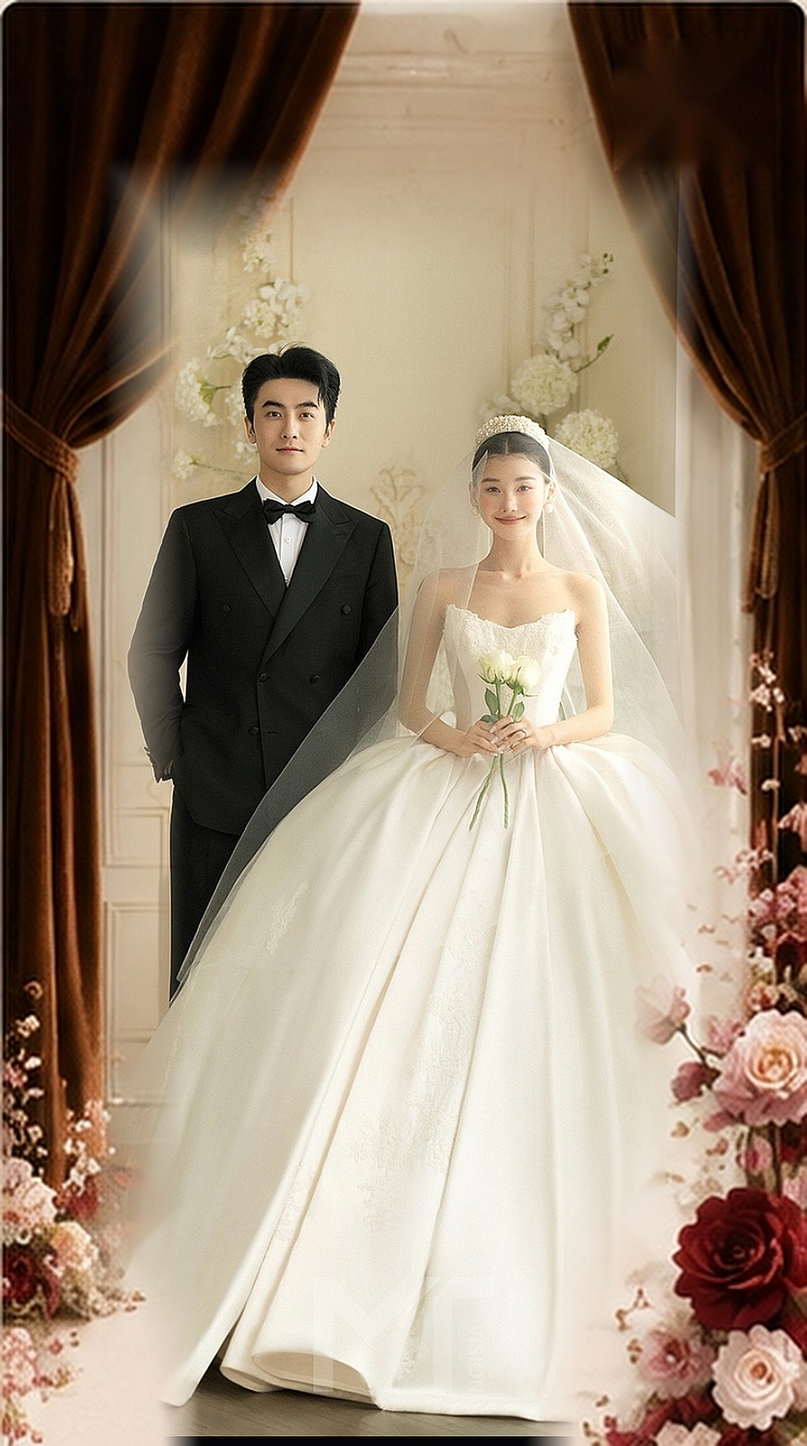
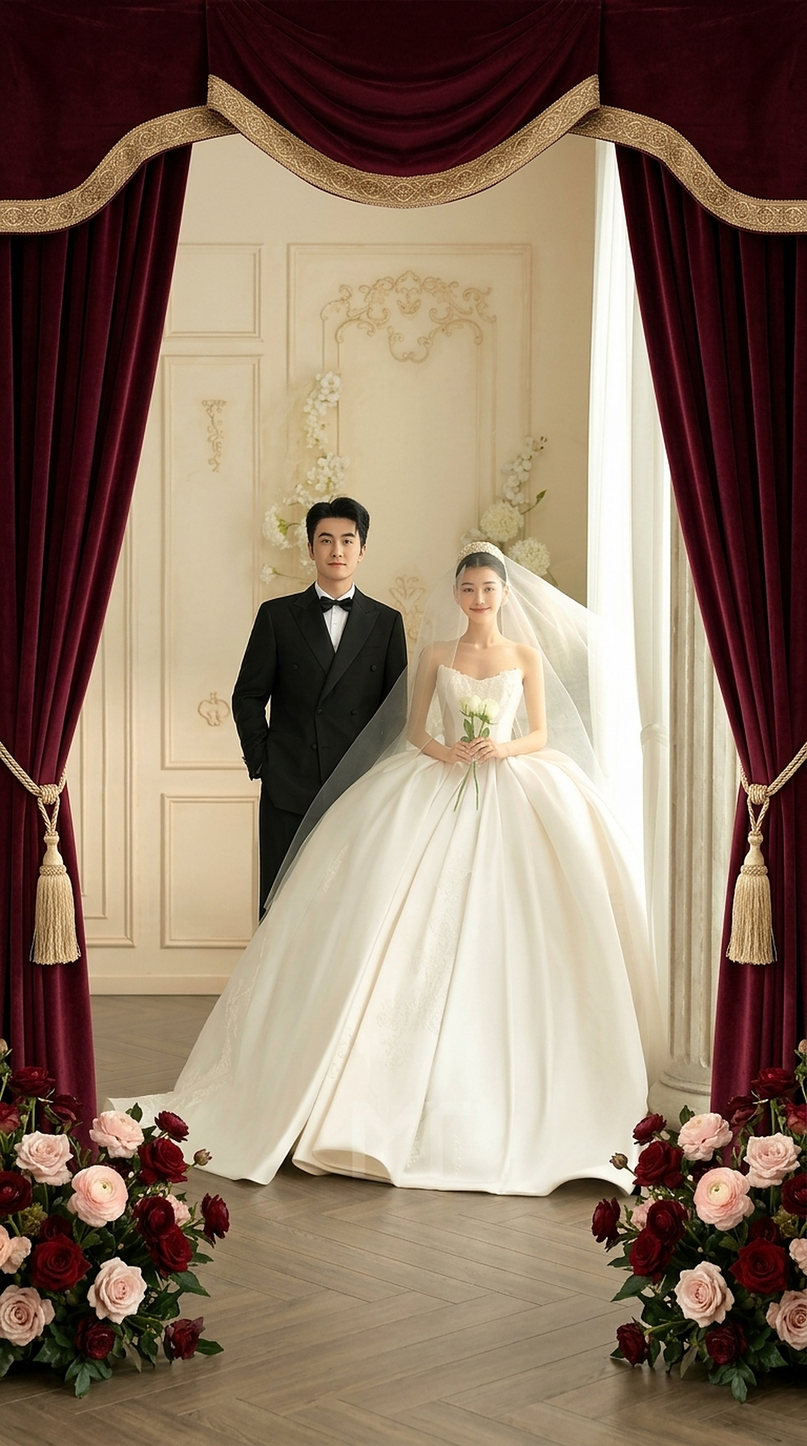
feat(cover): upgrade Card 01 with symmetrical burgundy velvet curtains and pristine cream arch

diff --git a/index.html b/index.html
@@ -11,7 +11,7 @@
   <link rel="preconnect" href="https://fonts.googleapis.com">
   <link rel="preconnect" href="https://fonts.gstatic.com" crossorigin>
   <link href="https://fonts.googleapis.com/css2?family=Alex+Brush&family=Cinzel:wght@400;500;600;700&family=Cormorant+Garamond:ital,wght@0,400;0,600;1,400&family=Noto+Serif+SC:wght@300;400;500;600;700&display=swap" rel="stylesheet">
-  <link rel="stylesheet" href="css/style.css?v=20260904_3">
+  <link rel="stylesheet" href="css/style.css?v=20260904_5">
 </head>
 <body>
   <div class="app-wrapper">
@@ -31,7 +31,7 @@
         
         <!-- Screen 01: 封面 -->
         <section class="card card-01" id="card-01">
-          <img class="cover-bg-photo" id="coverBgPhoto" src="assets/images/card01_bg.jpg?v=20260904_3" alt="婚礼封面背景">
+          <img class="cover-bg-photo" id="coverBgPhoto" src="assets/images/card01_bg.jpg?v=20260904_5" alt="婚礼封面背景">
           <!-- 自定义照片时的前景帷幕遮罩 -->
           <img class="cover-frame-overlay" id="coverFrameOverlay" src="assets/images/card01_frame.png" style="display: none;" alt="帷幕与花艺框架">
           
